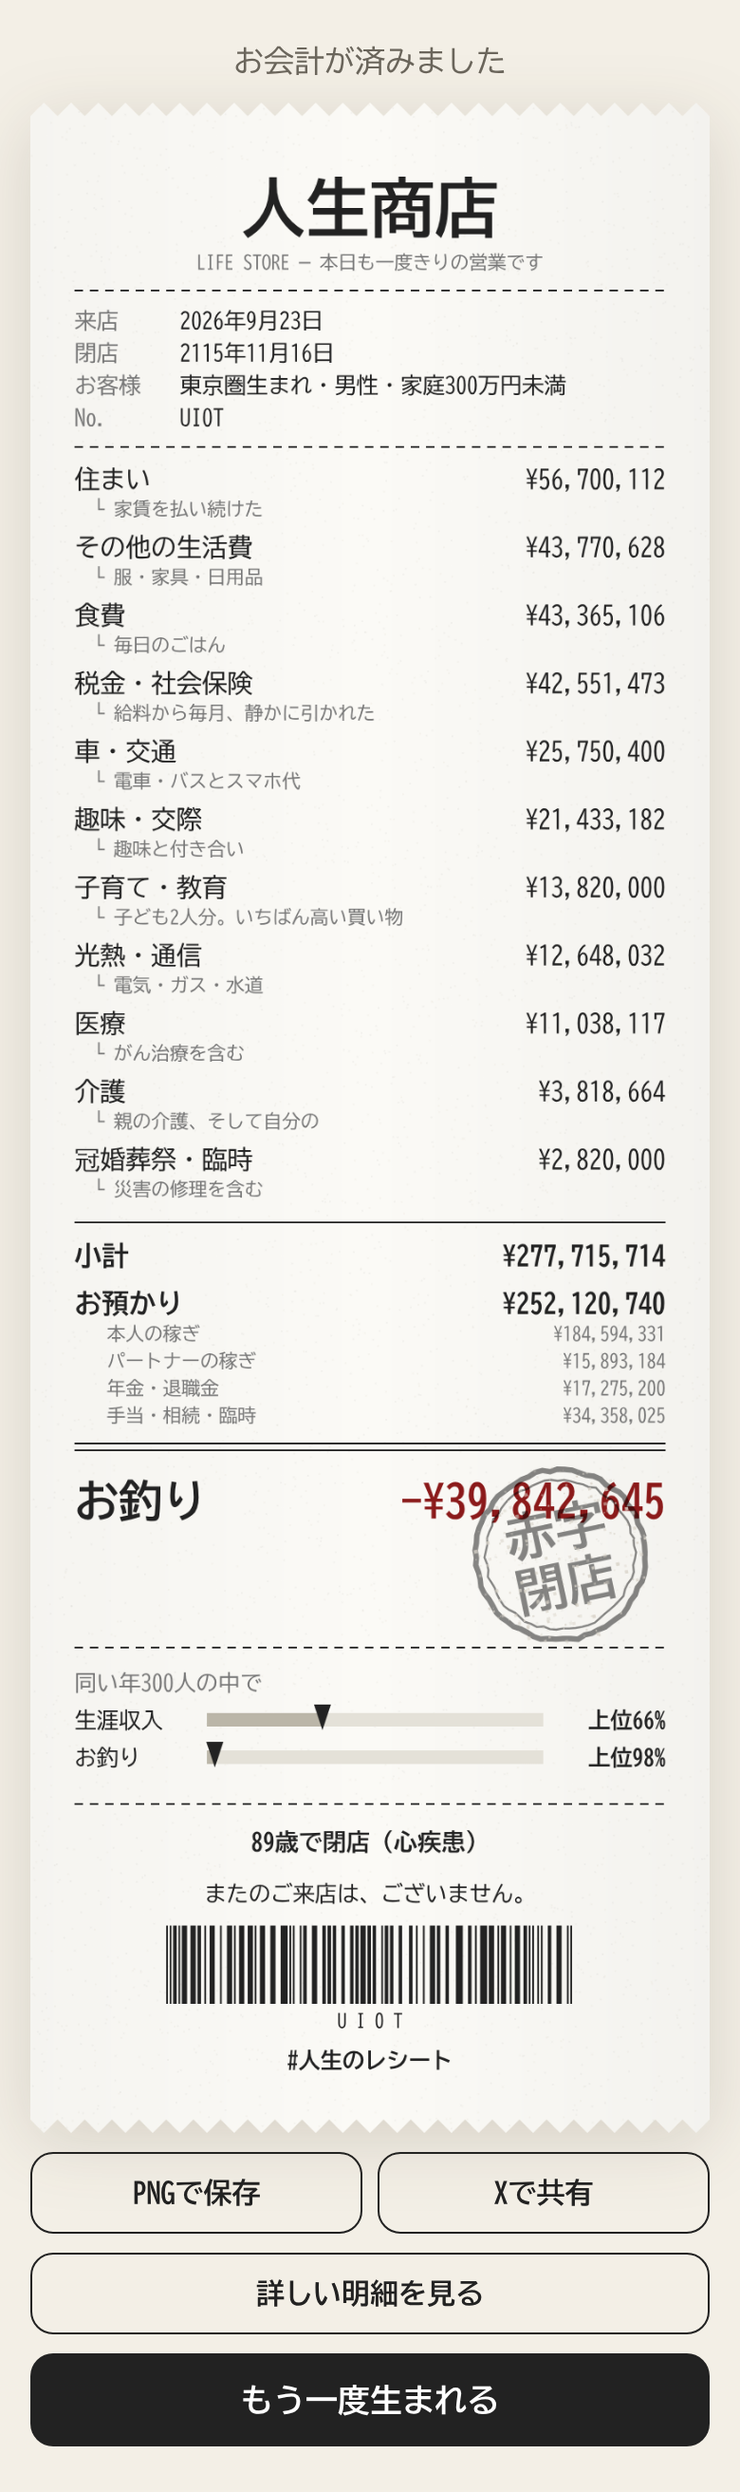
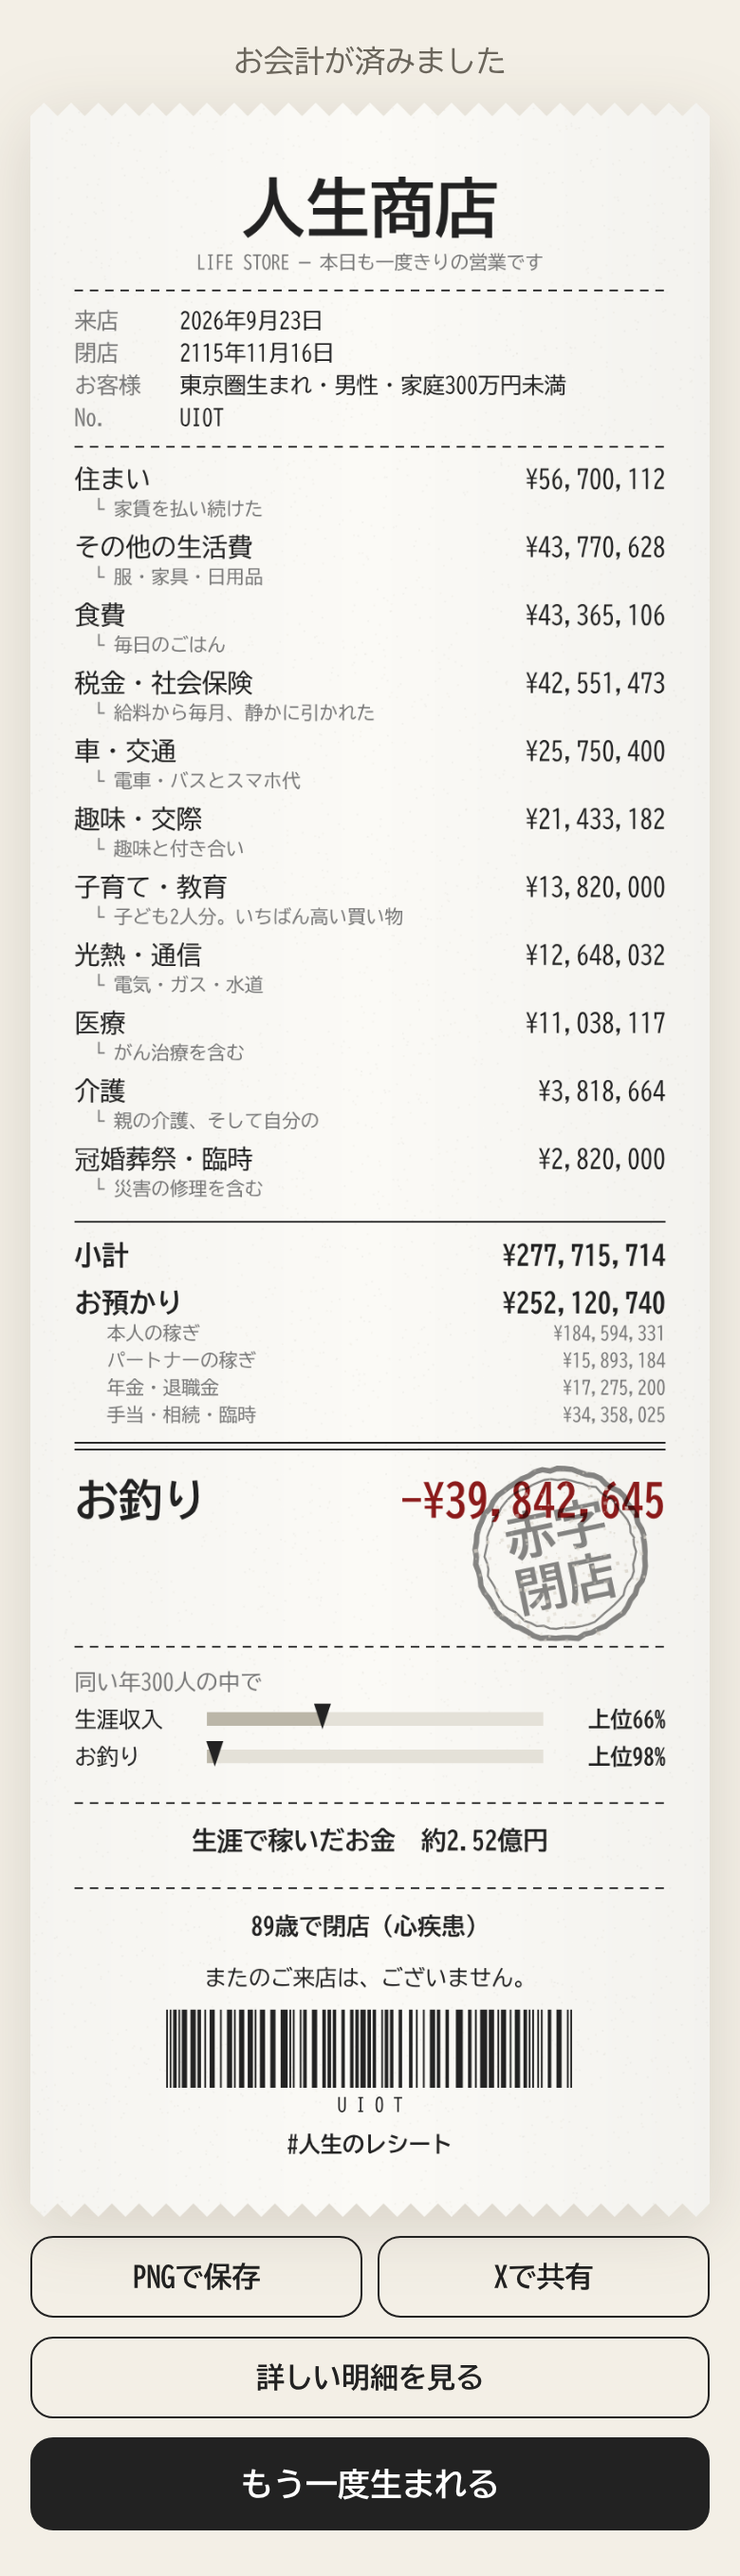
共有の一言を「生涯で稼いだお金」に変え、リンクのプレビュー画像を追加
- レシート画像の一言と Xの投稿文を「◯◯に生まれ、生涯で稼いだお金は約◯◯円。」に
- 「日本で生まれていたら、ほぼ0円でした」の行を削除
- 共有したときに出るプレビュー画像 public/og.png と、それを作る scripts/ogimage.mjs を追加
- index.html と r.html に og:image と大きな画像のカード指定を追加

Claude-Session: https://claude.ai/code/session_01P8h7G7H9Hz4F9jwmunJGJH

diff --git a/src/engine/result.ts b/src/engine/result.ts
@@ -30,8 +30,8 @@ export interface ReceiptData {
   /** 表示する通貨（日本は円） */
   currency: { code: string; nameJa: string; symbol: string; jpyPerUnit: number };
   countryName: string;
-  /** 物価の上昇で目減りした貯金（現地通貨）。目減りがなければ 0 */
-  inflationLoss: number;
+  /** 生涯で稼いだお金（本人・パートナーの稼ぎ、年金、手当など。現地通貨） */
+  lifetimeIncome: number;
   deathLine: string;
   closing: string;
 }
@@ -172,7 +172,7 @@ export function buildReceipt(l: Life): ReceiptData {
     stamp: stampOf(s.finalBalance, l.D.k),
     currency: l.D.currency,
     countryName: l.D.nameJa,
-    inflationLoss: Math.round(s.expenseTotal.inflation ?? 0),
+    lifetimeIncome: Math.round(s.lifetimeIncome),
     deathLine: `${s.deathAge}歳で閉店（${s.deathCause}）`,
     closing: "またのご来店は、ございません。",
   };
@@ -202,16 +202,14 @@ export function turningPoints(l: Life, max = 8): TurningPoint[] {
 
 export const SHARE_TEXT = "あなたはどこでお金を使う？ #人生のレシート";
 
-/** 物価で消えた貯金を円に直した額。1万円未満は 0（共有の文やレシートの一言に出さない） */
-export function inflationLossJpy(d: ReceiptData): number {
-  const v = d.inflationLoss * d.currency.jpyPerUnit;
-  return v >= 10_000 ? v : 0;
+/** 生涯で稼いだお金を円に直した額（レシート画像の一言と、Xの投稿文に使う） */
+export function lifetimeIncomeJpy(d: ReceiptData): number {
+  return d.lifetimeIncome * d.currency.jpyPerUnit;
 }
 
-/** Xに投稿する文。物価で貯金が消えた人生は、その額を一言添える */
+/** Xに投稿する文。生まれた国と、生涯で稼いだお金を添える */
 export function shareText(d?: ReceiptData): string {
-  const v = d ? inflationLossJpy(d) : 0;
-  return v > 0 ? `${d!.countryName}に生まれ、物価で消えた貯金は約${yen(v)}。${SHARE_TEXT}` : SHARE_TEXT;
+  return d ? `${d.countryName}に生まれ、生涯で稼いだお金は約${yen(lifetimeIncomeJpy(d))}。${SHARE_TEXT}` : SHARE_TEXT;
 }
 
 export function shareIntentUrl(url: string, d?: ReceiptData): string {

diff --git a/index.html b/index.html
@@ -5,10 +5,15 @@
     <meta name="viewport" content="width=device-width, initial-scale=1, viewport-fit=cover" />
     <meta name="theme-color" content="#f3efe6" />
     <title>人生のレシート</title>
-    <meta name="description" content="今年、日本で生まれた赤ちゃんとして、一生ぶんのお金の流れを体験するシミュレーションゲーム。" />
+    <meta name="description" content="日本・主要20か国・世界から生まれる場所を選び、統計データで一生ぶんのお金の流れを体験するシミュレーションゲーム。" />
     <meta property="og:title" content="人生のレシート" />
     <meta property="og:description" content="あなたはどこでお金を使う？ 統計データで、一生ぶんのお金を体験する。" />
-    <meta name="twitter:card" content="summary" />
+    <meta property="og:type" content="website" />
+    <meta property="og:image" content="https://tomo-project-ivory.vercel.app/og.png" />
+    <meta property="og:image:width" content="1200" />
+    <meta property="og:image:height" content="630" />
+    <meta name="twitter:card" content="summary_large_image" />
+    <meta name="twitter:image" content="https://tomo-project-ivory.vercel.app/og.png" />
     <link rel="preconnect" href="https://fonts.googleapis.com" />
     <link rel="preconnect" href="https://fonts.gstatic.com" crossorigin />
     <link href="https://fonts.googleapis.com/css2?family=BIZ+UDGothic:wght@400;700&display=swap" rel="stylesheet" />

diff --git a/src/ui/receipt.ts b/src/ui/receipt.ts
@@ -1,5 +1,5 @@
 // 感熱紙風のレシートを canvas に描く。PNG保存・共有もここで扱う。
-import { inflationLossJpy, type ReceiptData } from "../engine/result";
+import { lifetimeIncomeJpy, type ReceiptData } from "../engine/result";
 
 const W = 400;
 const PAD = 26;
@@ -269,16 +269,11 @@ function layout(p: Pen, d: ReceiptData): void {
   rankBar(p, "生涯収入", d.rankIncome);
   rankBar(p, "お釣り", d.rankBalance);
   p.y += 10;
-  // 物価で貯金が消えた人生は、その額を一言で目立たせる（日本ではこの目減りがほぼ起きない）
-  const lostJpy = inflationLossJpy(d);
-  if (lostJpy > 0) {
-    rule(p);
-    p.y += 24;
-    text(p, `物価で消えた貯金　${approxYen(lostJpy)}`, W / 2, 15, { bold: true, align: "center", color: RED_INK, maxW: W - PAD * 2 });
-    p.y += 20;
-    text(p, "日本で生まれていたら、ほぼ0円でした", W / 2, 11, { align: "center", color: GRAY, maxW: W - PAD * 2 });
-    p.y += 10;
-  }
+  // 生涯で稼いだお金を、円に直して一言で目立たせる
+  rule(p);
+  p.y += 24;
+  text(p, `生涯で稼いだお金　${approxYen(lifetimeIncomeJpy(d))}`, W / 2, 15, { bold: true, align: "center", maxW: W - PAD * 2 });
+  p.y += 10;
   rule(p);
   p.y += 24;
   text(p, d.deathLine, W / 2, 14, { bold: true, align: "center", maxW: W - PAD * 2 });

diff --git a/r.html b/r.html
@@ -9,7 +9,11 @@
     <meta property="og:title" content="人生のレシート｜詳細" />
     <meta property="og:description" content="生まれてから閉店まで、人生でいくら使った？ 1枚のレシートと年ごとのお金の流れ。" />
     <meta property="og:site_name" content="人生のレシート" />
-    <meta name="twitter:card" content="summary" />
+    <meta property="og:image" content="https://tomo-project-ivory.vercel.app/og.png" />
+    <meta property="og:image:width" content="1200" />
+    <meta property="og:image:height" content="630" />
+    <meta name="twitter:card" content="summary_large_image" />
+    <meta name="twitter:image" content="https://tomo-project-ivory.vercel.app/og.png" />
     <meta name="twitter:title" content="人生のレシート｜詳細" />
     <meta name="twitter:description" content="生まれてから閉店まで、人生でいくら使った？ #人生のレシート" />
     <meta name="theme-color" content="#f3efe6" />

diff --git a/README.md b/README.md
@@ -19,7 +19,7 @@
    - **小さな選択（1〜3年ごと）**：お小遣い、部活、アルバイト、ボーナスの使い道、副業の誘い、海外への出稼ぎ、家畜を買う、暗号資産、詐欺電話など26種類。国・年齢・状況で出るものが変わる。
    - **人生の出来事から生まれる選択**：結婚したら「子どもを持つか（ほしい／しばらく二人で／持たない）」、授からないときは不妊治療をするか。夫婦のすれ違いでは「話し合う／カウンセリング／別れる」（いきなり離婚はしない）。パートナーの暴力では「相談窓口の支援で家を出る／家族に相談／様子を見る」（描写はせず、日本では相談先 #8008 を表示）。
    - **国ごとの出来事（110種類）**：ナイジェリアの燃料費高騰、インドのモンスーン洪水、米国の医療費、韓国の塾代、フィリピンの海外就労など、その国の暮らしでよく起きることを選択つきで。
-   - **統計にもとづく出来事**：物価の暴騰（通貨の価値が急落）、盗難・強盗、政情不安、紛争による避難、感染症、干ばつ、洪水・地震。起こりやすさはその国のインフレ率・殺人率・政治の安定度などから決まる。物価が荒れやすい国では「ドルや金で貯める」選択も出る。毎年の物価上昇率は、その国で実際に記録された年の値をひと続きで借りてくる（例：「物価が1年で42%上がった（イランで2025年に実際に記録された上昇率）」）。物価で目減りした現金は、レシートに「物価で消えた貯金」として別の行で出る。目減りが1万円以上あった人生は、レシート画像の下の方にその額が赤字で入り、Xの投稿文も「イランに生まれ、物価で消えた貯金は約170万円。」のように始まる。
+   - **統計にもとづく出来事**：物価の暴騰（通貨の価値が急落）、盗難・強盗、政情不安、紛争による避難、感染症、干ばつ、洪水・地震。起こりやすさはその国のインフレ率・殺人率・政治の安定度などから決まる。物価が荒れやすい国では「ドルや金で貯める」選択も出る。毎年の物価上昇率は、その国で実際に記録された年の値をひと続きで借りてくる（例：「物価が1年で42%上がった（イランで2025年に実際に記録された上昇率）」）。物価で目減りした現金は、レシートに「物価で消えた貯金」として別の行で出る。レシート画像の下の方には「生涯で稼いだお金　約◯◯円」が入り、Xの投稿文も「イランに生まれ、生涯で稼いだお金は約2,584万円。」のように始まる。リンクを共有したときのプレビュー画像は public/og.png（`node scripts/ogimage.mjs` で作り直せる）。
    - どの道にも得と損の両方がある。正解はない。
 6. 亡くなるとレシートが発行される。金額は現地通貨（日本以外は円換算も併記）。**PNGで保存**／**Xで共有**／**詳しい明細を見る** ができる。
 
